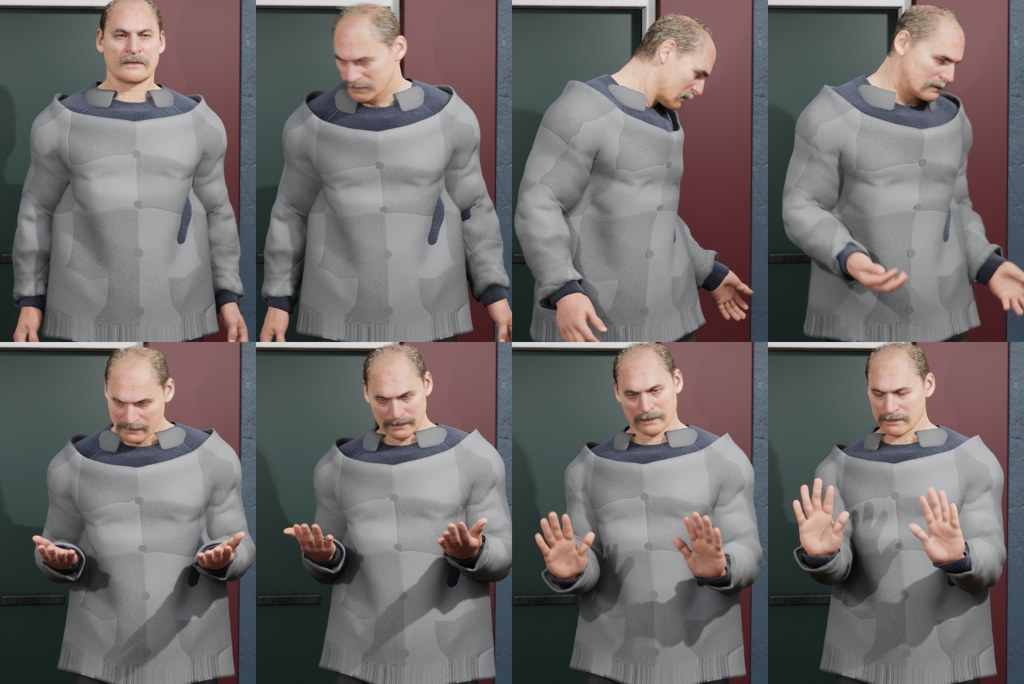
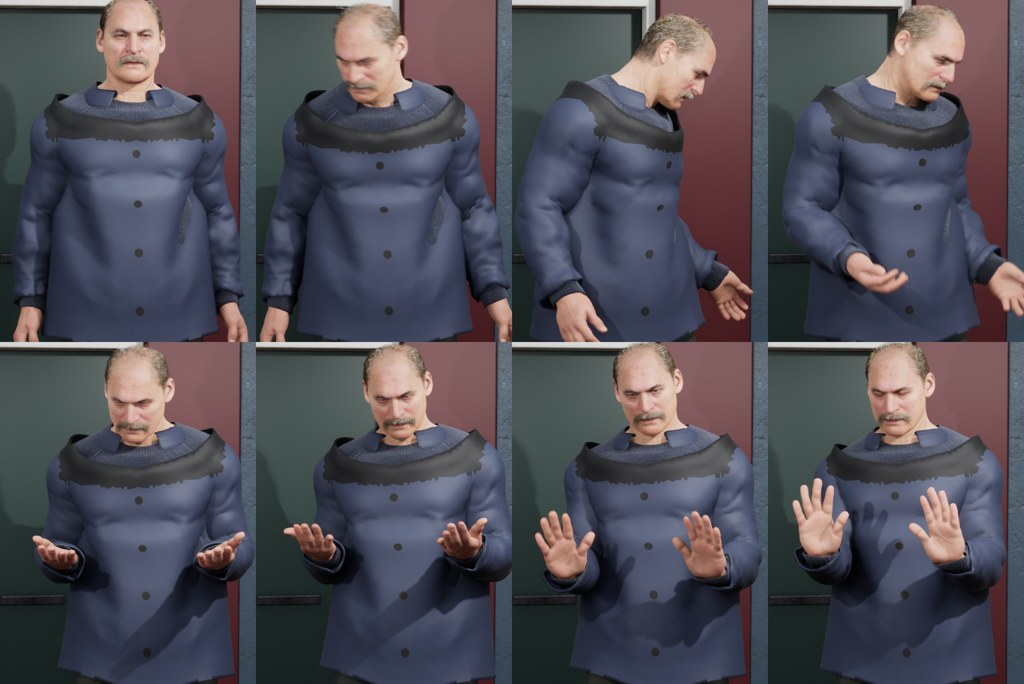
The cloth jacket in its colours: navy wool, the black yoke and buttons, on Ron walking and moving
It rendered in the engine's grey: its colours were instances of a base
material not flagged for skinned meshes or cloth, and a cloth asset
regenerated from Epic's template renders in grey debug cloth whatever its
meshes carry. The cloth script now makes the jacket's own base material with
both flags and a fresh graph and asset each run (the template's import
nodes keep their first import until their Reimport button is pressed);
LedgerJacket.h sets the three instances on the cloth component by slot name.
Still to do: the chest shows Ron's muscle, the wool is too blue and shiny,
the yoke's edge is ragged.

diff --git a/tools/ue/make_cloth_jacket.py b/tools/ue/make_cloth_jacket.py
@@ -66,7 +66,20 @@ def main_after_idle(seconds=20.0):
     COLOURS = {"wool": (0.035, 0.043, 0.075), "yoke": (0.012, 0.012, 0.013), "button": (0.02, 0.018, 0.016)}
 
     def colour_render_mesh(mesh, dest):
-        base = unreal.load_asset("/Engine/BasicShapes/BasicShapeMaterial.BasicShapeMaterial")
+        # A BASE MATERIAL OF OUR OWN, flagged for skinned meshes and cloth: the
+        # engine's basic shape material is not, and on the game's cloth
+        # component it fell back to the engine's grey (28 September).
+        base_path = dest + "/M_DonkeyJacket_Base"
+        base = unreal.load_asset(base_path) if unreal.EditorAssetLibrary.does_asset_exist(base_path) else             unreal.EditorAssetLibrary.duplicate_asset("/Engine/BasicShapes/BasicShapeMaterial", base_path)
+        for flag in ("used_with_skeletal_mesh", "used_with_clothing"):
+            try:
+                base.set_editor_property(flag, True)
+            except Exception as e:
+                log("  %s: %s" % (flag, e))
+        unreal.MaterialEditingLibrary.recompile_material(base)
+        unreal.EditorAssetLibrary.save_loaded_asset(base, only_if_is_dirty=False)
+        log("base material %s: skeletal %s, clothing %s" % (base_path, base.get_editor_property("used_with_skeletal_mesh"),
+                                                            base.get_editor_property("used_with_clothing")))
         tools = unreal.AssetToolsHelpers.get_asset_tools()
         mats = mesh.get_editor_property("static_materials")
         for i, sm in enumerate(mats):
@@ -96,11 +109,16 @@ def main_after_idle(seconds=20.0):
         body = unreal.load_asset(body_path)
         log("body %s: %s" % (body_path, type(body).__name__ if body else "NOT FOUND"))
         lib = unreal.EditorAssetLibrary
-        df_path, ca_path = dest + "/DF_" + name, dest + "/CA_" + name
-        # MADE ONCE, THEN REGENERATED: deleting and copying again failed on the
-        # second run (both copies came back empty), so an existing pair is kept.
-        df = unreal.load_asset(df_path) if lib.does_asset_exist(df_path) else lib.duplicate_asset("/ChaosClothAsset/DF_StaticMeshClothTemplate", df_path)
-        ca = unreal.load_asset(ca_path) if lib.does_asset_exist(ca_path) else lib.duplicate_asset("/ChaosClothAsset/CA_Template", ca_path)
+        # A FRESH PAIR EACH TIME, under the time it was made: the template's
+        # import nodes keep their own copy of the meshes from the first import
+        # and refresh only when their Reimport button is pressed, so a kept
+        # graph never saw the new ease or colours (28 September); and deleting
+        # a pair and copying again under the same name failed.
+        stamp = time.strftime("%m%d%H%M")
+        df_path, ca_path = dest + "/DF_" + name + "_" + stamp, dest + "/CA_" + name + "_" + stamp
+        df = lib.duplicate_asset("/ChaosClothAsset/DF_StaticMeshClothTemplate", df_path)
+        ca = lib.duplicate_asset("/ChaosClothAsset/CA_Template", ca_path)
+        log("cloth asset path %s.%s" % (ca_path, ca_path.split("/")[-1]))
         log("graph %s, cloth asset %s" % (type(df).__name__ if df else None, type(ca).__name__ if ca else None))
         if not (df and ca and render and sim):
             return

diff --git a/ue-probe/Source/LedgerProbe/Public/LedgerJacket.h b/ue-probe/Source/LedgerProbe/Public/LedgerJacket.h
@@ -17,6 +17,8 @@
 #include "ChaosClothAsset/ClothComponent.h"
 #include "Components/SkeletalMeshComponent.h"
 #include "Engine/SkeletalMesh.h"
+#include "Materials/MaterialInterface.h"
+#include "Misc/Paths.h"
 #include "PhysicsEngine/PhysicsAsset.h"
 #include "GameFramework/Actor.h"
 #include "Misc/CommandLine.h"
@@ -94,6 +96,26 @@ namespace LedgerJacket
 		J->RegisterComponent();
 		J->SetAsset(Asset);
 		J->SetLeaderPoseComponent(Body);
+		// ITS COLOURS, set on the component: a cloth asset regenerated from the
+		// template renders in the engine's grey debug cloth, whatever the meshes
+		// carried (28 September). The instances sit beside the asset
+		// (MI_DonkeyJacket_Wool, _Yoke, _Button; tools/ue/make_cloth_jacket.py),
+		// matched to the slots by name, wool where no name matches.
+		const FString Folder = FPaths::GetPath(Path.Left(Path.Find(TEXT("."))));
+		auto Mat = [&Folder](const TCHAR* Key) { const FString N = FString(TEXT("MI_DonkeyJacket_")) + Key; return LoadObject<UMaterialInterface>(nullptr, *(Folder / N + TEXT(".") + N)); };
+		UMaterialInterface* Wool = Mat(TEXT("Wool"));
+		UMaterialInterface* Yoke = Mat(TEXT("Yoke"));
+		UMaterialInterface* Button = Mat(TEXT("Button"));
+		const TArray<FName> Slots = J->GetMaterialSlotNames();
+		FString Seen;
+		for (int32 I = 0; I < FMath::Max(Slots.Num(), J->GetNumMaterials()); ++I)
+		{
+			const FString S = Slots.IsValidIndex(I) ? Slots[I].ToString().ToLower() : FString();
+			UMaterialInterface* M = S.Contains(TEXT("yoke")) ? Yoke : S.Contains(TEXT("button")) ? Button : Wool;
+			if (M != nullptr) { J->SetMaterial(I, M); }
+			Seen += FString::Printf(TEXT("%s%d:%s"), Seen.IsEmpty() ? TEXT("") : TEXT(", "), I, S.IsEmpty() ? TEXT("(unnamed)") : *S);
+		}
+		UE_LOG(LogTemp, Display, TEXT("LedgerJacket: cloth slots %s; wool %s"), *Seen, Wool != nullptr ? TEXT("found") : TEXT("MISSING"));
 		UPhysicsAsset* Phys = Body->GetPhysicsAsset();
 		if (Phys != nullptr) { J->AddCollisionSource(Body, Phys); }
 		UE_LOG(LogTemp, Display, TEXT("LedgerJacket: cloth %s worn, colliding with %s"), *Path, Phys != nullptr ? *Phys->GetName() : TEXT("nothing (no physics asset)"));

diff --git a/NOW.md b/NOW.md
@@ -5,7 +5,7 @@ GOAL: one goal, set by Jafar with /goal, runs from Monday 28 September until Sun
 - [ ] 1. Cleanup: his two groups of 28 September carried out (30.6 GB; C: 46.4 to 74.1 GB), and every build now clears its history and waits for this PC's Unreal work. By night C: settled at 53.8 to 57.4 GB (Unreal's store refilled to its 20 GB cap, the build machine's fresh copy 9.5 GB, the old cache refilling from the build machine's cook), so a new page is up for Tuesday morning (production/approvals/2026-09-29-cleanup): the store capped at 10 GB, the old cache again. WAITING ON HIM.
 - [x] 2. His verdicts from the weekend pages: read them, including whether Ron's P2 is Ron. Anything he has not judged carries onto the next page. DONE 28 September: Ron's P2 is Ron (his pick); recorded beside the picture and in the game (log: Rocco is MH_RoccoP2). Carries onto the next page: the 25 September evening page's three voices as the game speaks them (no verdicts).
 - [ ] 3. Faces, following the new research (production/research/character-pipeline/clothing-and-face-lighting-2026-09-27.md). First make the comparison fair: the same exposure, face level of detail and material quality in the street as in the portrait tool (at medium or low quality MetaHuman skin loses its subsurface scattering). Then the conversation light: one soft light, only on the character being spoken to, off to one side of the camera, on a lighting channel of its own, its indirect and fog contribution off, and a faint light in the eyes; measured against a budget of 0.5 ms. Brighten the street's daylight only if the street pair still calls for it after that, judged so it does not go hazy. Then Sheila's and Darren's candidates again in the corrected light, with eye colours from their casting sheets (the last all came out green by mistake). IN HAND 28 September: the comparison fair; the conversation light settled after four blind reviews and passed the fifth (0.6 cd from above and aside, skin only, none in sun, 0.20 ms, fading in); the street's daylight stays. Sheila and Darren: the third attempt's research, then finished from measurements of the concept portraits over four passes (S1 to S4), each failing a fresh blind reviewer on narrower points (S4: Sheila too young and smooth, Darren's eyes heavy). On his ruling, S4 of each is on Monday's page with the reviewer's notes: WAITING ON HIM. If he says no: find what gives both faces orange upper lids and red inner corners, then a head made to each concept (MPFB2, CC0) conformed with Mesh to MetaHuman.
-- [ ] 5. Clothes, following the new research. MetaHuman clothing is scriptable in Python on 5.8 (Epic's example scripts in the MetaHuman Character plugin), so no computer use. The earlier jacket was solid because MetaHuman's resizing strips the cloth simulation: use the resizing graph with Strip Sim Mesh = false. Sew the garment around the actual MetaHuman body in Blender, with a separate simulation mesh. First one donkey jacket on one body, its loose parts simulated, tested walking, sitting and with arms raised; then versions for three builds; then automate it. Then a proper flat cap and work trousers from FreeSewing's patterns. Every garment checked against 1990 photographs before it reaches him. If the free route stalls on the jacket, one month of Marvelous Designer at $39 is approved. IN HAND 28 September: the built body has no torso (a build drops the skin under clothes), so Ron's whole body is exported for other programs tonight; the drape method works on Epic's template body (tools/meshgen/blender/drape_jacket.py: hung straight from the chest by Blender's cloth, collar, yoke, buttons, pockets, weights).
+- [ ] 5. Clothes, following the new research. MetaHuman clothing is scriptable in Python on 5.8 (Epic's example scripts in the MetaHuman Character plugin), so no computer use. The earlier jacket was solid because MetaHuman's resizing strips the cloth simulation: use the resizing graph with Strip Sim Mesh = false. Sew the garment around the actual MetaHuman body in Blender, with a separate simulation mesh. First one donkey jacket on one body, its loose parts simulated, tested walking, sitting and with arms raised; then versions for three builds; then automate it. Then a proper flat cap and work trousers from FreeSewing's patterns. Every garment checked against 1990 photographs before it reaches him. If the free route stalls on the jacket, one month of Marvelous Designer at $39 is approved. IN HAND 28 September: Ron's whole body out through Epic's geometry export; the jacket hung on it in Blender (tools/meshgen/blender/drape_jacket.py), made an Unreal cloth asset from Epic's template by script (tools/ue/make_cloth_jacket.py), worn on Ron in the game, simulated and colliding with his body, filmed walking and through a range of motion in navy with its yoke and buttons (production/art/clothing/donkey-jacket-2026-09-28). Next: smooth the chest, a matt wool, the yoke edge and collar, a sitting animation, 1990 photographs; then three builds.
 - [ ] 6. The voice delay, following the latency research (production/research/live-speech-architecture/conversation-latency-2026-09-25.md). Pocket TTS again, from longer takes of his approved voices, the accent checked before he hears anything. If it still drifts American, bring him a decision on a paid voice service with its cost per hour. Cover the pause that remains with a small thinking gesture and a short sound of acknowledgement, never a loading sign. Then livelier lines: VoxCPM2 with acting direction per line for the lines made in advance, on a blind page. IN HAND 28 September: Pocket failed a third time (Ron another man, Darren American, Sheila's take not English): set aside; the paid-voice decision (Inworld about $0.28 an hour of play; the consent question for Ron's and Darren's recorded voices) goes to him. Thinking sounds: Ron and Darren have two each in the game (content/voice/acks), Sheila none yet.
 - [ ] 7. The town session's handovers, wired into the game as they arrive.
 - [ ] 8. The playable slice, with the real people, their clothes, suspicion and the encounter, and the AI tester walking the packaged release build once a day.

diff --git a/production/art/clothing/donkey-jacket-2026-09-28/README.md b/production/art/clothing/donkey-jacket-2026-09-28/README.md
@@ -13,3 +13,7 @@ tools/ue/make_cloth_jacket.py imports the two meshes and fills a copy of Epic's 
 ## Worn and moving, same night
 
 The cloth asset on Ron in the game (LedgerJacket.h WearCloth: a Chaos cloth component following his body's pose and colliding with his physics asset, PHYS_MH_RoccoP2), photographed four times a second through Epic's walk loop and its body range-of-motion loop (the portrait tool's -PortraitMotion= and -PortraitCloth=): cloth-walk-sheet.jpg and cloth-rom-sheet.jpg. It moves with him walking, bending and with his arms forward; 3 cm of ease keeps his jumper under it but for one patch at one side. Still wrong: it renders in the cloth asset's default grey (the colours given to the meshes do not reach the cloth asset; its graph sets its own materials), the chest still shows his muscle, the collar reads as two tabs at the front. No sitting animation ships with the engine.
+
+## In its colours, same night
+
+The grey was the engine's default material: the jacket's colours sat on a base material not flagged for skinned meshes or cloth, and the cloth asset regenerated from the template renders in grey debug cloth whatever the meshes carry. Now the jacket has its own base material (skinned meshes and cloth flagged), the game sets its three instances on the cloth component by slot name, and each run of the cloth script makes a fresh graph and asset (the template's import nodes keep their first import until their Reimport button is pressed). The sheets now show navy wool, the black yoke and the buttons on Ron walking and moving. Still to do: smooth the chest and shoulders (his muscle shows), a matt wool material (this one is too blue and shiny in the studio light), a cleaner yoke edge and collar, a sitting animation, and 1990 photographs to check it against.
